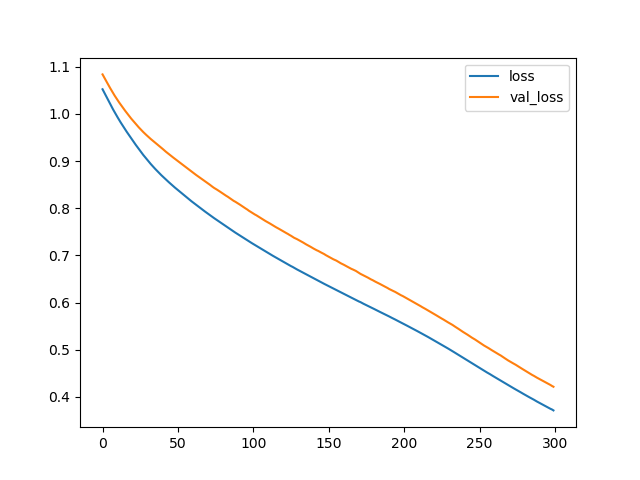
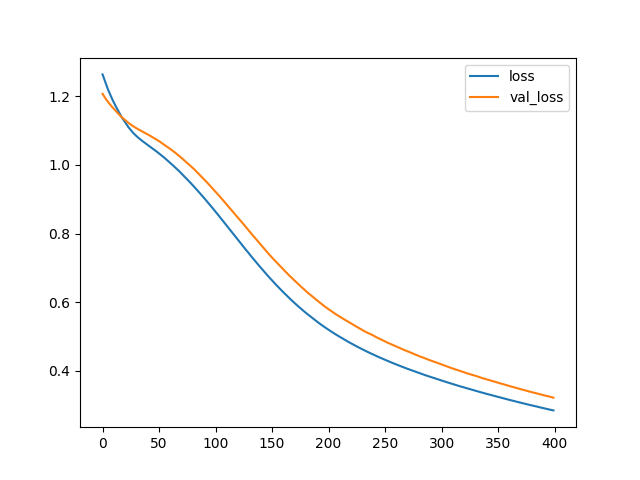
Update model parameters

diff --git a/dff/classifier/iris-dataset-classifier/classifier.py b/dff/classifier/iris-dataset-classifier/classifier.py
@@ -13,12 +13,13 @@ from sklearn.preprocessing import LabelBinarizer
 from sklearn.model_selection import train_test_split
 from sklearn.preprocessing import MinMaxScaler
 from tensorflow.keras.models import Sequential
-from tensorflow.keras.layers import Dense
+from tensorflow.keras.layers import Dense, Dropout
 from tensorflow.keras.callbacks import EarlyStopping
 from tensorflow.keras.models import load_model
 import joblib
 
-epochs = 300
+epochs = 400
+patience = 4
 
 
 def read_data():
@@ -51,6 +52,7 @@ def create_model():
     model = Sequential()
 
     model.add(Dense(units=4, activation='relu', input_shape=[4, ]))
+   # model.add(Dropout(0.2))
     model.add(Dense(units=3, activation='softmax'))
 
     model.compile(optimizer='adam', loss='categorical_crossentropy', metrics=['accuracy'])
@@ -107,7 +109,7 @@ scaled_X_train, scaled_X_test = scale_data(scaler)
 
 model = create_model()
 
-early_stop = EarlyStopping(monitor='val_loss', patience=10)
+early_stop = EarlyStopping(monitor='val_loss', patience=patience)
 
 model.fit(x=scaled_X_train,
           y=y_train,
@@ -127,7 +129,7 @@ scaled_X = scaler.fit_transform(X)
 model = create_model()
 
 model.fit(scaled_X, y, epochs=epochs)
-model.save('model/inal_iris_model.h5')
+model.save('model/final_iris_model.h5')
 
 # Save scaler for later use external to this program
 joblib.dump(scaler, 'model/iris_scaler.pkl')
@@ -137,6 +139,14 @@ flower_scaler = joblib.load('model/iris_scaler.pkl')
 
 iris.head()
 
-flower_example = {"sepal_length": 5.1, "sepal_width": 3.5, "petal_length": 1.4, "petal_width": 0.2}
+flower_example1 = {"sepal_length": 5.1, "sepal_width": 3.5, "petal_length": 1.4, "petal_width": 0.2}
+flower_example2 = {"sepal_length": 2.1, "sepal_width": 5.5, "petal_length": 1.4, "petal_width": 3.2}
 
-predicted_index = return_prediction(model, scaler, flower_example)
+predicted_index1 = return_prediction(model, scaler, flower_example1)
+predicted_index2 = return_prediction(model, scaler, flower_example2)
+
+print("Prediction 1:")
+print(predicted_index1)
+
+print("Prediction 2:")
+print(predicted_index1)
